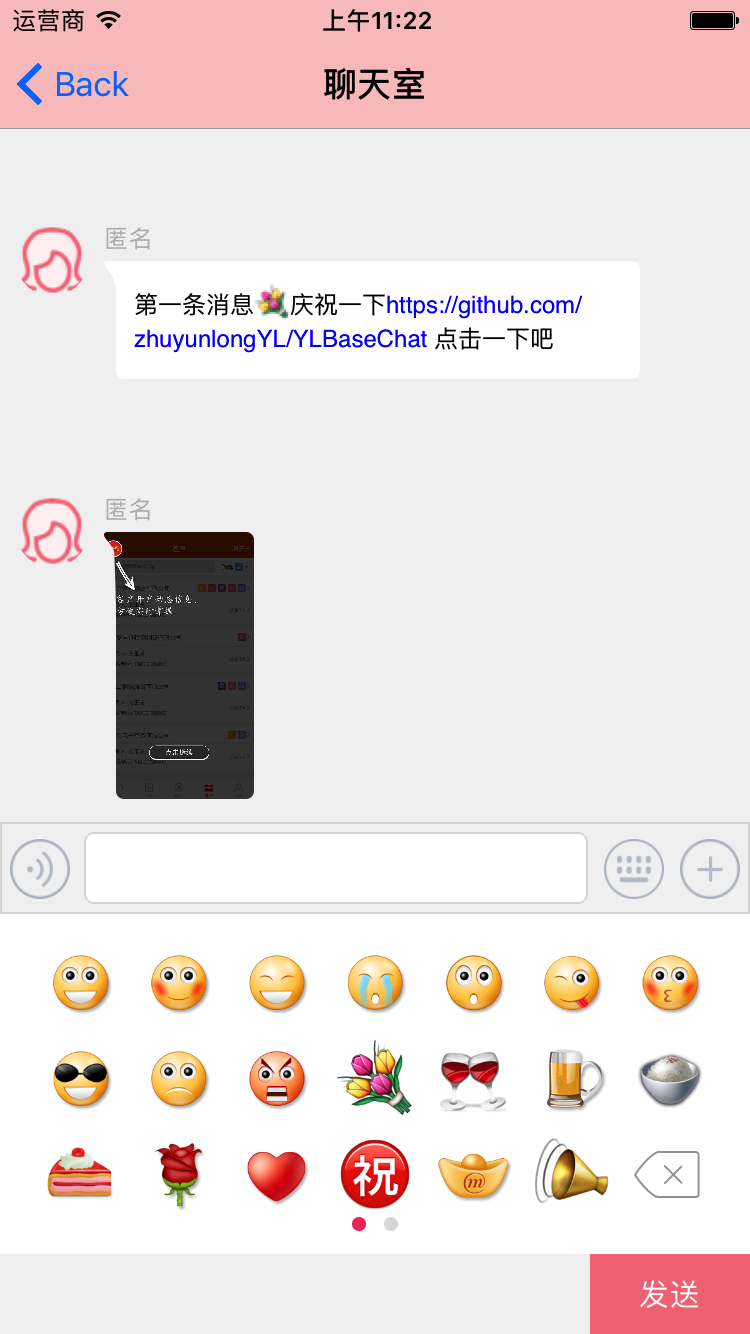
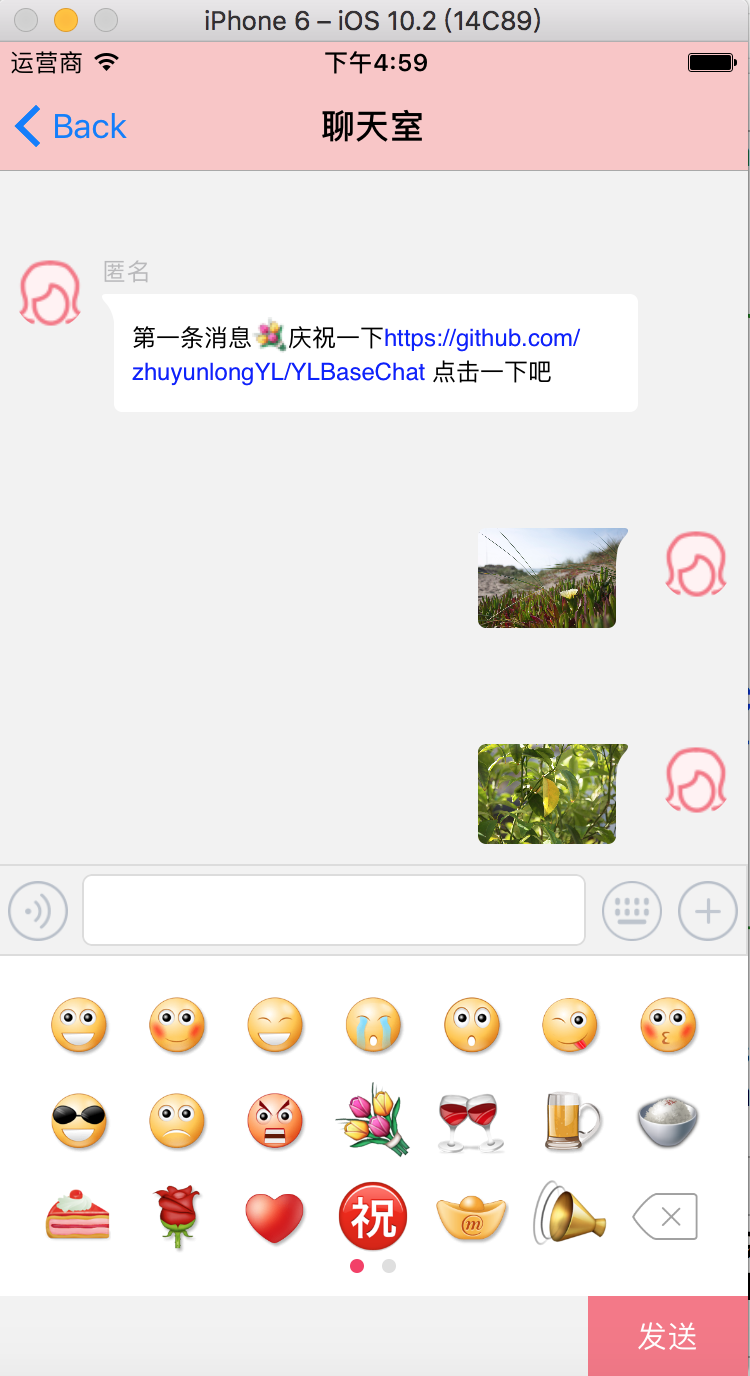
no message

diff --git a/README.md b/README.md
@@ -4,8 +4,9 @@
 // 下载后需要 pod install 一下                         
 RealmSwift   数据库                    
 SnapKit      约束                 
-YYText       图文                 
-
+YYText       图文             
+UITableView+FDTemplateLayoutCell  自动适配高度
+TZImagePickerController 选择相册
 
 YLReplyView 输入框的封装
 ![image](https://github.com/zhuyunlongYL/YLBaseChat/blob/master/RImage/1.png)
@@ -27,13 +28,27 @@ YLReplyView 输入框的封装
     func efAddMorePanelView() -> UIView {
         let panelView = UIView()
         panelView.backgroundColor = UIColor.white
+        
+        let imageView = UIImageView()
+        imageView.image = UIImage(named: "btn_import_photo")
+        panelView.addSubview(imageView)
+        
+        imageView.snp.makeConstraints { (make) in
+            make.top.equalTo(20)
+            make.left.equalTo(40)
+            make.width.height.equalTo(55)
+        }
+        
+        imageView.isUserInteractionEnabled = true
+        imageView.addGestureRecognizer(UITapGestureRecognizer.init(target: self, action: #selector(YLReplyView.efHandlePhotos)))
+        
         return panelView
     }
     
-    // 恢复普通状态
+    // 已经恢复普通状态
     func efDidRecoverReplyViewStateForNormal() {}
     
-    // 恢复编辑状态
+    // 已经恢复编辑状态
     func efDidRecoverReplyViewStateForEdit() {}
     
     // 收起输入框
@@ -42,11 +57,23 @@ YLReplyView 输入框的封装
     }
     
     // 录音处理
-    func efStartRecording() {}
-    func efCancelRecording() {}
-    func efSendRecording() {}
-    func efSlideUpToCancelTheRecording() {}
-    func efLoosenCancelRecording() {}
+    func efStartRecording() {
+        recordingView.recordingState = RecordingState.volumn
+        recordingView.volume = 0.0
+    }
+    func efCancelRecording() {
+        recordingView.isHidden = true
+    }
+    func efSendRecording() {
+        recordingView.recordingState = RecordingState.timeTooShort
+    }
+    func efSlideUpToCancelTheRecording() {
+        recordingView.recordingState = RecordingState.volumn
+    }
+    func efLoosenCancelRecording() {
+        recordingView.recordingState = RecordingState.cancel
+    }
     
     // 发送消息
-    func efSendMessageText() {}
+    func efSendMessageText(_ text:String) {}
+    func efSendMessageImage(_ images:[UIImage]?) {}
